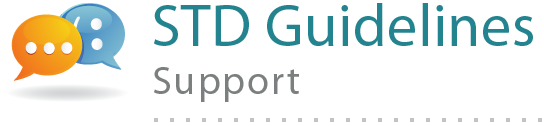
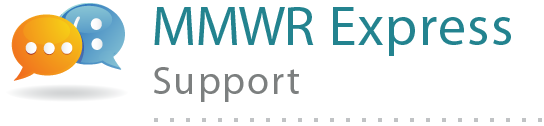
Created Photon support web page

Changed region(s): [[0.2812, 0.0238, 1.0, 0.4524]]

diff --git a/html/MMWR_express/index_iphone.html b/html/MMWR_express/index_iphone.html
@@ -2,7 +2,7 @@
 <html xmlns="http://www.w3.org/1999/xhtml">
 <head>
 <meta http-equiv="Content-Type" content="text/html; charset=utf-8" />
-<title>STD Guidelines Support | CDC Mobile Application</title>
+<title>MMWR Express Support | CDC Mobile Application</title>
 <link rel="stylesheet" href="styles_iphone.css" type="text/css" />
 <link
         rel="stylesheet"
@@ -55,11 +55,13 @@ s.parentNode.insertBefore(ga, s);
 <div id="about_content">
 <p>
 
-This mobile prototype application, CDC STD Treatment Guidelines for iOS/Android, serves as a reference for doctors and related parties on the identification of and treatment regimen for STDs.<br/><br/>
-
-These guidelines for the treatment of persons who have or are at risk for sexually transmitted diseases (STDs) were updated by CDC after consultation with a group of professionals knowledgeable in the field of STDs who met in Atlanta on April 18-30, 2009. The information in this report updates the 2006 Guidelines for Treatment of Sexually Transmitted Diseases (MMWR 2006;55[No. RR-11]).<br/><br/>
-
-This application is a result of a collaboration between CDC's Division of STD Prevention (DSTDP), Behavioral Interventions & Research Branch (BIRB) and the Public Health Surveillance and Informatics Program Office's Informatics Research & Development Activity, and is based on the 2010 STD Treatment Guidelines.
+This mobile prototype application, MMWR Express, provides fast access to the blue summary boxes in MMWR's Weekly Report.  
+ <br/><br/>
+The Morbidity and Mortality Weekly Report (MMWR) series is prepared by the Centers for Disease Control and Prevention (CDC). Often called "the voice of CDC," the MMWR series is the agency's primary vehicle for scientific publication of timely, reliable, authoritative, accurate, objective, and useful public health information and recommendations. 
+ <br/><br/>
+Summaries are searchable by specific MMWR issue, or by specific subject (e.g., salmonella).  
+<br/><br/>
+This application is a result of a collaboration between CDC's MMWR staff and the Informatics Innovation Unit staff within the Office of Public Health Scientific Services. 
 
 </p>
 </div><!--end of about_content-->
@@ -70,7 +72,7 @@ This application is a result of a collaboration between CDC's Division of STD Pr
 </div><!--end of contact-->
 
 <div id="contact_content">
-<p>For content-related questions, please visit the CDC site:  <a href="http://www.cdc.gov/std">www.cdc.gov/std</a><br/><br/>
+<p>For content-related questions, please visit the CDC site:  <a href="http://www.cdc.gov/mmwr">www.cdc.gov/mmwr</a><br/><br/>
 
 For questions regarding the application (design, new features, etc.), please contact the staff at <a href="mailto:informaticslab@cdc.gov">InformaticsLab@cdc.gov</a>. <br/><br/>For more information on the Informatics R&D Lab: <a href="http://www.phiresearchlab.org">www.phiresearchlab.org</a></p>
 
@@ -85,24 +87,24 @@ For questions regarding the application (design, new features, etc.), please con
 
 <div id="faqs_content">
 <br/>
-<span class="hang"><span class="qa">Q:</span> How do I get the Mobile STD Treatment Guidelines app?</span>
+<span class="hang"><span class="qa">Q:</span> How do I get the MMWR Express app?</span>
 <br/>
-<span class="hang"><span class="qa">A:</span> You can <a href="https://itunes.apple.com/us/app/std-tx-guide/id655206856?mt=8">download the app</a> for your iPhone, iPod touch, or iPad from Apple's App Store — free of charge. You can also download it, free of charge, to your Android device from <a href="https://play.google.com/store/apps/details?id=gov.cdc.oid.nchhstp.stdguide">Google Play Store</a></span>
+<span class="hang"><span class="qa">A:</span> You can <a href="#">download the app</a> for your iPhone, iPod touch, or iPad from Apple's App Store — free of charge. </span>
 <br/><br/>
 <span class="hang"><span class="qa">Q:</span> Is any information about me collected or stored on the app?</span><br/>
 <span class="hang"><span class="qa">A:</span> No</span>
 
 <br/><br/>
-<span class="hang"><span class="qa">Q:</span> How is "Condition Quick Pick" different from "Full STD Guidelines"?</span><br/> 
-<span class="hang"><span class="qa">A:</span> "Condition Quick Pick" is a feature designed to allow fast access to the specific treatment regimes provided within the full guidelines. Conditions are listed in alphabetical order. "Full STD Guidelines" is structured the same way as the original guidelines, optimized for rapid navigation on a mobile device.</span>
+<span class="hang"><span class="qa">Q:</span> How is "View by Issue" different from "View by Subject"?</span><br/> 
+<span class="hang"><span class="qa">A:</span> The "View by Issue" tab allows access to an article's blue summary box information by specific MMWR issue. Issues are listed in sequential order (most recent publication date first). The "View by Subject" tab allows users to view blue summary box information by subject (e.g., influenza).</span>
 <br/><br/>
-<span class="hang"><span class="qa">Q:</span> Do you plan to put photos in the application?</span><br/> 
-<span class="hang"><span class="qa">A:</span> Yes, in future releases.
+<span class="hang"><span class="qa">Q:</span> What if I want to view the full article, not just the blue summary box information?</span><br/> 
+<span class="hang"><span class="qa">A:</span> Once you have navigated to the blue summary box detailed information, there is a "View Full Article" button which will present the full article text.
 </span>
 
 <br/><br/>
-<span class="hang"><span class="qa">Q:</span> How do i know if I'm using the most updated treatment guideline information?</span><br/> 
-<span class="hang"><span class="qa">A:</span> View the "STD data date" in the "About Us" section of app, and compare it to the dates provided in the "Updates, Errata, Etc." section of the STD Treatment Guidelines website:<a href="http://www.cdc.gov/std/treatment/2010/"> http://www.cdc.gov/std/treatment/2010/</a></span>
+<span class="hang"><span class="qa">Q:</span> How do I get the most recent MMWR issue(s) and subject information?</span><br/> 
+<span class="hang"><span class="qa">A:</span> On the "View by Issue" and "View by Subject" list screens, pull down (with your finger) to refresh the content. You will see a spinning graphic while the new content is loading.</span>
 <br/><br/><br/>
 
 </div><!--end of faqs_content-->

diff --git a/html/stdapp/index_iphone.html b/html/stdapp/index_iphone.html
@@ -101,7 +101,7 @@ For questions regarding the application (design, new features, etc.), please con
 </span>
 
 <br/><br/>
-<span class="hang"><span class="qa">Q:</span> How do i know if I'm using the most updated treatment guideline information?</span><br/> 
+<span class="hang"><span class="qa">Q:</span> How do I know if I'm using the most updated treatment guideline information?</span><br/> 
 <span class="hang"><span class="qa">A:</span> View the "STD data date" in the "About Us" section of app, and compare it to the dates provided in the "Updates, Errata, Etc." section of the STD Treatment Guidelines website:<a href="http://www.cdc.gov/std/treatment/2010/"> http://www.cdc.gov/std/treatment/2010/</a></span>
 <br/><br/><br/>
 

diff --git a/html/MMWR_express/index.php b/html/MMWR_express/index.php
@@ -66,7 +66,7 @@ This mobile prototype application, MMWR Express, provides fast access to the blu
  <br/><br/>
 The Morbidity and Mortality Weekly Report (MMWR) series is prepared by the Centers for Disease Control and Prevention (CDC). Often called “the voice of CDC,” the MMWR series is the agency’s primary vehicle for scientific publication of timely, reliable, authoritative, accurate, objective, and useful public health information and recommendations. 
  <br/><br/>
-Summaries are searchable by specific issue, or by specific subject (e.g., salmonella).  
+Summaries are searchable by specific MMWR issue, or by specific subject (e.g., salmonella).  
 <br/><br/>
 This application is a result of a collaboration between CDC's MMWR staff and the Informatics Innovation Unit staff within the Office of Public Health Scientific Services.  
 
@@ -105,15 +105,15 @@ For questions regarding the application (design, new features, etc.), please con
 
 <br/><br/>
 <span class="hang"><span class="qa">Q:</span> How is "View by Issue" different from "View by Subject"?</span><br/> 
-<span class="hang"><span class="qa">A:</span> "View by Issue" allows access to an article's blue summary box information by specific MMWR weekly issue. Issues are listed in sequential order (most recent publication date first).  Conditions are listed in alphabetical order.  "Full STD Guidelines" is structured the same way as the original guidelines, optimized for rapid navigation on a mobile device.</span>
+<span class="hang"><span class="qa">A:</span> The "View by Issue" tab allows access to an article's blue summary box information by specific MMWR issue. Issues are listed in sequential order (most recent publication date first). The "View by Subject" tab allows users to view blue summary box information by subject (e.g., influenza).</span>
 <br/><br/>
-<span class="hang"><span class="qa">Q:</span> Do you plan to put photos in the application?</span><br/> 
-<span class="hang"><span class="qa">A:</span> Yes, in future releases.
+<span class="hang"><span class="qa">Q:</span> What if I want to view the full article, not just the blue summary box information?</span><br/> 
+<span class="hang"><span class="qa">A:</span> Once you have navigated to the blue summary box detailed information, there is a "View Full Article" button which will present the full article text.
 </span>
 
 <br/><br/>
-<span class="hang"><span class="qa">Q:</span> How do i know if I'm using the most updated treatment guideline information?</span><br/> 
-<span class="hang"><span class="qa">A:</span> View the "STD data date" in the "About Us" section of app, and compare it to the dates provided in the "Updates, Errata, Etc." section of the STD Treatment Guidelines website: <a href="http://www.cdc.gov/std/treatment/2010/">http://www.cdc.gov/std/treatment/2010/</a></span>
+<span class="hang"><span class="qa">Q:</span> How do I get the most recent MMWR issue(s) and subject information?</span><br/> 
+<span class="hang"><span class="qa">A:</span> On the "View by Issue" and "View by Subject" list screens, pull down (with your finger) to refresh the content. You will see a spinning graphic while the new content is loading. </span>
 <br/><br/>
 
 

diff --git a/html/stdapp/index.php b/html/stdapp/index.php
@@ -111,7 +111,7 @@ For questions regarding the application (design, new features, etc.), please con
 </span>
 
 <br/><br/>
-<span class="hang"><span class="qa">Q:</span> How do i know if I'm using the most updated treatment guideline information?</span><br/> 
+<span class="hang"><span class="qa">Q:</span> How do I know if I'm using the most updated treatment guideline information?</span><br/> 
 <span class="hang"><span class="qa">A:</span> View the "STD data date" in the "About Us" section of app, and compare it to the dates provided in the "Updates, Errata, Etc." section of the STD Treatment Guidelines website: <a href="http://www.cdc.gov/std/treatment/2010/">http://www.cdc.gov/std/treatment/2010/</a></span>
 <br/><br/>
 
